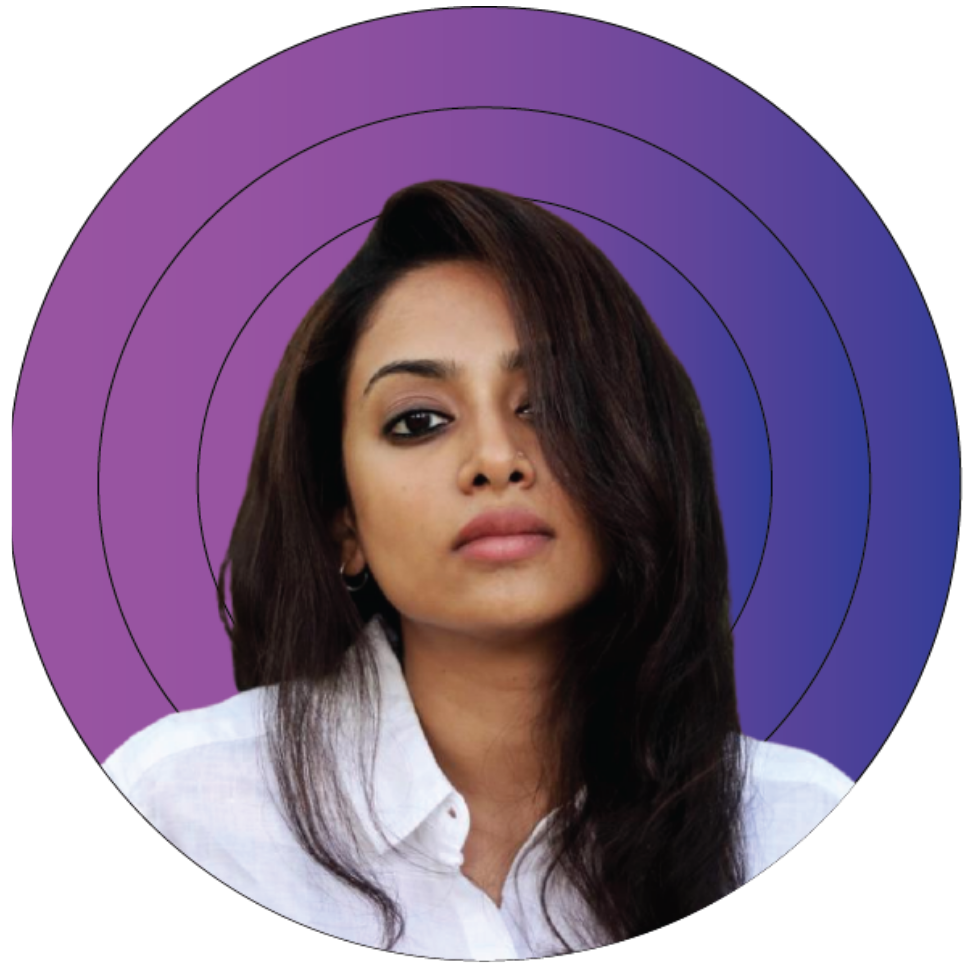
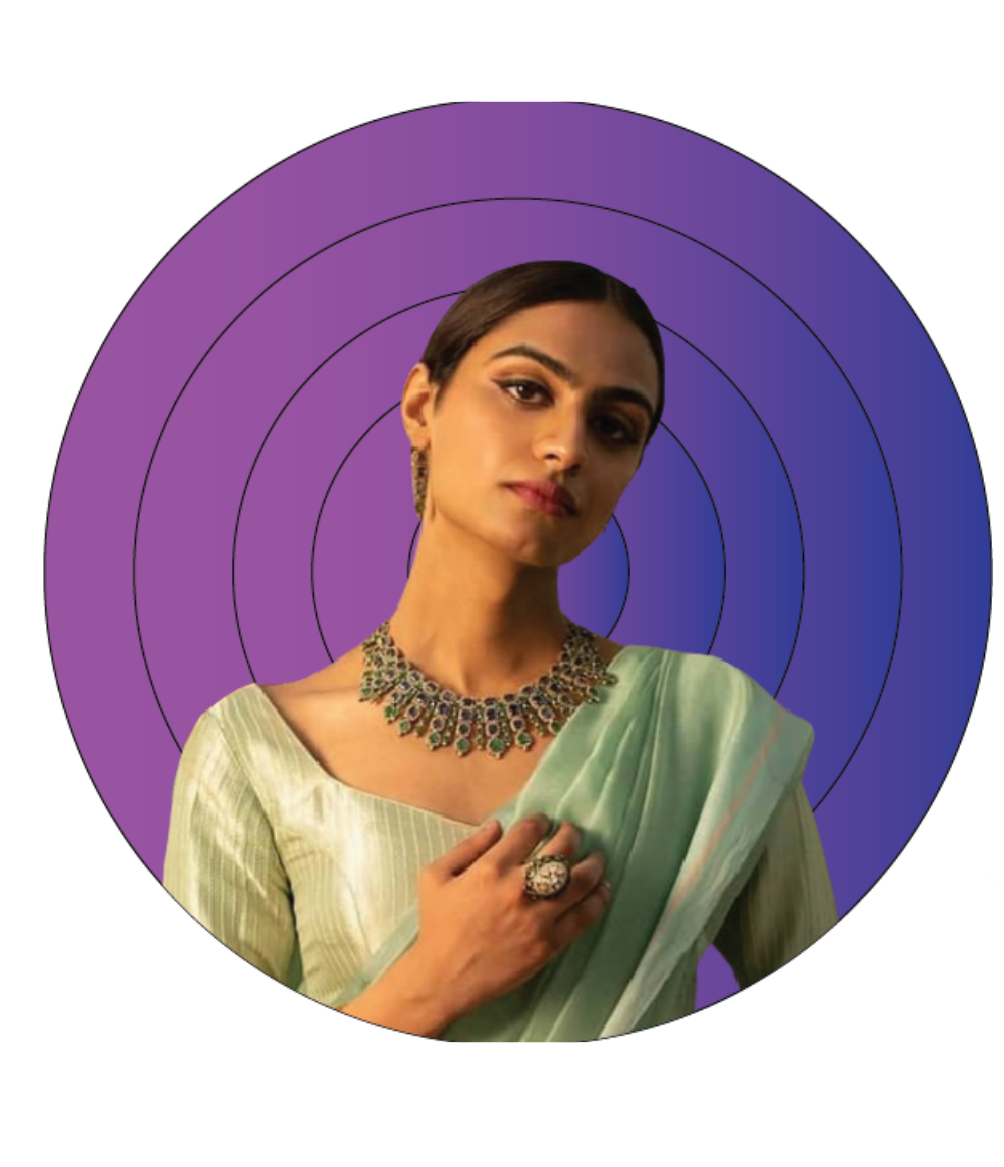
speakers photos and register page

diff --git a/pages/cynosure.js b/pages/cynosure.js
@@ -3,7 +3,6 @@ import Image from "next/image";
 import Head from "next/head";
 import Link from "next/link";
 
-import Footer from '../components/cynosure/Footer';
 import Slide from '../components/Slide'
 import cynoSlider from '../data/cynoSlider'
 import SpeakerCard from "../components/cynosure/speakerCard";
@@ -13,7 +12,6 @@ import { useForm } from "react-hook-form";
 import { FontAwesomeIcon } from "@fortawesome/react-fontawesome";
 import { faMapMarked } from "@fortawesome/free-solid-svg-icons";
 import { faFacebook, faInstagram, faLinkedin } from "@fortawesome/free-brands-svg-icons";
-import { useForm } from "react-hook-form";
 import axios from "axios";
 import React from "react";
 import { ToastContainer, toast } from 'react-toastify';
@@ -73,8 +71,12 @@ const cynosure = () => {
                     <Image className="" src="/CynosureLogo.png" height={2251} width={2251} loading="eager" />
                 </div>
                 <div className="px-10">
-                    <p className="text-lg lg:text-xl xl:text-2xl">Non aute anim exercitation aute nostrud ex ad do in dolor non velit. Occaecat ex excepteur exercitation aliquip ut nostrud enim consectetur.</p>
-                    <p className="text-lg lg:text-xl xl:text-2xl pt-5">Non aute anim exercitation aute nostrud ex ad do in dolor non velit. Occaecat ex excepteur exercitation aliquip ut nostrud enim consectetur.</p>
+                    <p className="text-lg lg:text-xl xl:text-2xl">A 16th century French word you may not have heard of until now, 'CYNOSURE' means "to be the centre of admiration and attention". </p>
+                    <p className="text-lg lg:text-xl xl:text-2xl pt-5">It's about placing things that matter, in the spotlight. Because, you matter. Your struggles matter.
+                    The path that you build for yourself, matters.</p>
+                    <p className="text-lg lg:text-xl xl:text-2xl pt-5">Overcome your inhibitions and seize the spotlight, and do it with zest and pride.
+                     Be a polestar that brings new perspectives into redefined focus.
+                    Be unapologetically you. </p>
                 </div>
             </div>
 
@@ -85,53 +87,55 @@ const cynosure = () => {
 
                 {/* Mobile View */}
                 <SpeakerCardMobile
-                    imgsrc="/cynosure/Meera.png"
+                    imgsrc="/cynosure/gauthami.png"
                     imgwidth="971"
                     imgheight="971"
-                    speaker="Meera"
-                    details="Lorem ipsum dolor sit amet, consectetur adipiscing elit, sed do eiusmod tempor incididunt ut labore et dolore magna aliqua. Ut enim ad minim veniam, quis nostrud exercitation ullamco laboris nisi ut aliquip ex ea commodo consequat. Duis aute irure dolor in reprehenderit in voluptate velit esse cillum dolore eu fugiat nulla pariatur. Excepteur sint occaecat cupidatat non proident, sunt in culpa qui officia deserunt mollit anim id est laborum."
+                    speaker="Gauthami Nair"
+                    details="Gauthami Nair, an adept actress and a proficient director, is a name familiar to all Malayalees. Her flamboyant personality mixed with her soul-stirring acting has made her one of the most illustrious actresses in the Malyalam film industry. Having made her mark through films like The Diamond Necklace and Second Show, she also directed Vrittham, a movie that made history with an all-women crew. Currently doing research in neuroscience at Sree Chitra Hospital, Trivandrum, her determination and mettle has incited many aspiring women directors to take the big step and prove their competence in the field."
                 />
 
                 <SpeakerCardMobile
                     imgsrc="/cynosure/Meera.png"
                     imgwidth="971"
                     imgheight="971"
-                    speaker="Meera"
-                    details="Lorem ipsum dolor sit amet, consectetur adipiscing elit, sed do eiusmod tempor incididunt ut labore et dolore magna aliqua. Ut enim ad minim veniam, quis nostrud exercitation ullamco laboris nisi ut aliquip ex ea commodo consequat. Duis aute irure dolor in reprehenderit in voluptate velit esse cillum dolore eu fugiat nulla pariatur. Excepteur sint occaecat cupidatat non proident, sunt in culpa qui officia deserunt mollit anim id est laborum."
+                    speaker="Rojin Thomas"
+                    details="One of most reowned film directors and scriptwriters in the Malayalam film industry, he is the brain behind some of your favourite movies like Home and Philips and the Monkey Pen. With ideas and stories that can move the most indifferent of hearts, Mr. Thomas finds a way every time to connect his stories with the daily hustles of the common man. Home is a blockbuster hit that brought many deep-rooted issues into the limelight with a simple story of a family man and was extremely well-received by the Malayali audience."
+                />
+
+                <SpeakerCardMobile
+                    imgsrc="/cynosure/gauthami.png"
+                    imgwidth="971"
+                    imgheight="971"
+                    speaker="Dr. Fathima Nilufer Sheriff"
+                    details="A one woman show who did it all herself and strives to do more. The builder and driving force behind the company, this enterpreneur is now known for her brand 'Therefore I'm', one of the very first wellness centers in Kerala A brand with an army of accomplished artists who are constantly aiming to help people gain confidence in themselves and gratification to all those who endorse it. 
+                    The clinic provides a top-notch transformation experience and uses globally acclaimed medical practices to treat its clients."
+                />
+
+                <SpeakerCardMobile
+                    imgsrc="/cynosure/Don Paul.png"
+                    imgwidth="971"
+                    imgheight="971"
+                    speaker="Don Paul"
+                    details="A young humanitarian who uses his engineering skills to help the differently abled, Don Paul began his journey with just a student startup. With his steadfast dedication and grit, Desintox Technologies has gone on to become an organization that creates innovations to help out people whose physical abilities are compromised. A hero without a cape but a man on a mission, Mr. Don Paul is a harbinger for change and a person set to make reality of an inclusive society for differently abled people across the country."
                 />
 
                 <SpeakerCardMobile
                     imgsrc="/cynosure/Meera.png"
                     imgwidth="971"
                     imgheight="971"
-                    speaker="Meera"
-                    details="Lorem ipsum dolor sit amet, consectetur adipiscing elit, sed do eiusmod tempor incididunt ut labore et dolore magna aliqua. Ut enim ad minim veniam, quis nostrud exercitation ullamco laboris nisi ut aliquip ex ea commodo consequat. Duis aute irure dolor in reprehenderit in voluptate velit esse cillum dolore eu fugiat nulla pariatur. Excepteur sint occaecat cupidatat non proident, sunt in culpa qui officia deserunt mollit anim id est laborum."
-                />
-
-                <SpeakerCardMobile
-                    imgsrc="/cynosure/Meera.png"
-                    imgwidth="971"
-                    imgheight="971"
-                    speaker="Meera"
-                    details="Lorem ipsum dolor sit amet, consectetur adipiscing elit, sed do eiusmod tempor incididunt ut labore et dolore magna aliqua. Ut enim ad minim veniam, quis nostrud exercitation ullamco laboris nisi ut aliquip ex ea commodo consequat. Duis aute irure dolor in reprehenderit in voluptate velit esse cillum dolore eu fugiat nulla pariatur. Excepteur sint occaecat cupidatat non proident, sunt in culpa qui officia deserunt mollit anim id est laborum."
-                />
-
-                <SpeakerCardMobile
-                    imgsrc="/cynosure/Meera.png"
-                    imgwidth="971"
-                    imgheight="971"
-                    speaker="Meera"
-                    details="Lorem ipsum dolor sit amet, consectetur adipiscing elit, sed do eiusmod tempor incididunt ut labore et dolore magna aliqua. Ut enim ad minim veniam, quis nostrud exercitation ullamco laboris nisi ut aliquip ex ea commodo consequat. Duis aute irure dolor in reprehenderit in voluptate velit esse cillum dolore eu fugiat nulla pariatur. Excepteur sint occaecat cupidatat non proident, sunt in culpa qui officia deserunt mollit anim id est laborum."
+                    speaker="Meera Singhania Rehani"
+                    details="Meera Singhania Rehani is a proud trans woman model who has fought for herself against the society. Her jaw-dropping performance in the Bhima Jewellery's ad has transcended all stereotypes against the LQBTQ+ community. 
+                    She has touched thousands of people with her story and continues to stand up for the community in whatever she does."
                 />
 
                 {/* Web View */}
                 <SpeakerCard
                     option='left'
-                    imgsrc="/cynosure/Meera.png"
+                    imgsrc="/cynosure/gauthami.png"
                     imgwidth="971"
                     imgheight="971"
-                    speaker="Meera"
-                    details="Lorem ipsum dolor sit amet, consectetur adipiscing elit, sed do eiusmod tempor incididunt ut labore et dolore magna aliqua. Ut enim ad minim veniam, quis nostrud exercitation ullamco laboris nisi ut aliquip ex ea commodo consequat. Duis aute irure dolor in reprehenderit in voluptate velit esse cillum dolore eu fugiat nulla pariatur. Excepteur sint occaecat cupidatat non proident, sunt in culpa qui officia deserunt mollit anim id est laborum."
+                    speaker="Gauthami Nair"
+                    details="Gauthami Nair, an adept actress and a proficient director, is a name familiar to all Malayalees. Her flamboyant personality mixed with her soul-stirring acting has made her one of the most illustrious actresses in the Malyalam film industry. Having made her mark through films like The Diamond Necklace and Second Show, she also directed Vrittham, a movie that made history with an all-women crew. Currently doing research in neuroscience at Sree Chitra Hospital, Trivandrum, her determination and mettle has incited many aspiring women directors to take the big step and prove their competence in the field."
                 />
 
                 <SpeakerCard
@@ -139,8 +143,8 @@ const cynosure = () => {
                     imgsrc="/cynosure/Meera.png"
                     imgwidth="971"
                     imgheight="971"
-                    speaker="Meera"
-                    details="Lorem ipsum dolor sit amet, consectetur adipiscing elit, sed do eiusmod tempor incididunt ut labore et dolore magna aliqua. Ut enim ad minim veniam, quis nostrud exercitation ullamco laboris nisi ut aliquip ex ea commodo consequat. Duis aute irure dolor in reprehenderit in voluptate velit esse cillum dolore eu fugiat nulla pariatur. Excepteur sint occaecat cupidatat non proident, sunt in culpa qui officia deserunt mollit anim id est laborum."
+                    speaker="Rojin Thomas"
+                    details="One of most reowned film directors and scriptwriters in the Malayalam film industry, he is the brain behind some of your favourite movies like Home and Philips and the Monkey Pen. With ideas and stories that can move the most indifferent of hearts, Mr. Thomas finds a way every time to connect his stories with the daily hustles of the common man. Home is a blockbuster hit that brought many deep-rooted issues into the limelight with a simple story of a family man and was extremely well-received by the Malayali audience."
                 />
 
                 <SpeakerCard
@@ -148,17 +152,18 @@ const cynosure = () => {
                     imgsrc="/cynosure/Meera.png"
                     imgwidth="971"
                     imgheight="971"
-                    speaker="Meera"
-                    details="Lorem ipsum dolor sit amet, consectetur adipiscing elit, sed do eiusmod tempor incididunt ut labore et dolore magna aliqua. Ut enim ad minim veniam, quis nostrud exercitation ullamco laboris nisi ut aliquip ex ea commodo consequat. Duis aute irure dolor in reprehenderit in voluptate velit esse cillum dolore eu fugiat nulla pariatur. Excepteur sint occaecat cupidatat non proident, sunt in culpa qui officia deserunt mollit anim id est laborum."
+                    speaker="Dr. Fathima Nilufer Sheriff"
+                    details="A one woman show who did it all herself and strives to do more. The builder and driving force behind the company, this enterpreneur is now known for her brand 'Therefore I'm', one of the very first wellness centers in Kerala. A brand with an army of accomplished artists who are constantly aiming to help people gain confidence in themselves and gratification to all those who endorse it. 
+                    The clinic provides a top-notch transformation experience and uses globally acclaimed medical practices to treat its clients."
                 />
 
                 <SpeakerCard
                     option='right'
-                    imgsrc="/cynosure/Meera.png"
+                    imgsrc="/cynosure/Don Paul.png"
                     imgwidth="971"
                     imgheight="971"
-                    speaker="Meera"
-                    details="Lorem ipsum dolor sit amet, consectetur adipiscing elit, sed do eiusmod tempor incididunt ut labore et dolore magna aliqua. Ut enim ad minim veniam, quis nostrud exercitation ullamco laboris nisi ut aliquip ex ea commodo consequat. Duis aute irure dolor in reprehenderit in voluptate velit esse cillum dolore eu fugiat nulla pariatur. Excepteur sint occaecat cupidatat non proident, sunt in culpa qui officia deserunt mollit anim id est laborum."
+                    speaker="Don Paul"
+                    details="A young humanitarian who uses his engineering skills to help the differently abled, Don Paul began his journey with just a student startup. With his steadfast dedication and grit, Desintox Technologies has gone on to become an organization that creates innovations to help out people whose physical abilities are compromised. A hero without a cape but a man on a mission, Mr. Don Paul is a harbinger for change and a person set to make reality of an inclusive society for differently abled people across the country."
                 />
 
                 <SpeakerCard
@@ -166,8 +171,9 @@ const cynosure = () => {
                     imgsrc="/cynosure/Meera.png"
                     imgwidth="971"
                     imgheight="971"
-                    speaker="Meera"
-                    details="Lorem ipsum dolor sit amet, consectetur adipiscing elit, sed do eiusmod tempor incididunt ut labore et dolore magna aliqua. Ut enim ad minim veniam, quis nostrud exercitation ullamco laboris nisi ut aliquip ex ea commodo consequat. Duis aute irure dolor in reprehenderit in voluptate velit esse cillum dolore eu fugiat nulla pariatur. Excepteur sint occaecat cupidatat non proident, sunt in culpa qui officia deserunt mollit anim id est laborum."
+                    speaker="Meera Singhania Rehani"
+                    details="Meera Singhania Rehani is a proud trans woman model who has fought for herself against the society. Her jaw-dropping performance in the Bhima Jewellery's ad has transcended all stereotypes against the LQBTQ+ community. 
+                    She has touched thousands of people with her story and continues to stand up for the community in whatever she does."
                 />
 
             </div>

diff --git a/pages/register.js b/pages/register.js
@@ -65,10 +65,12 @@ const register = () => {
                     <Image className="" src="/CynosureLogo.png" height={2251} width={2251} loading="eager" />
                 </div>
                 <div className="px-10">
-                    <p className="text-lg lg:text-xl xl:text-2xl">Non aute anim exercitation aute nostrud ex ad do in dolor non velit. Occaecat ex excepteur exercitation aliquip ut nostrud enim consectetur.</p>
-                    <p className="text-lg lg:text-xl xl:text-2xl pt-5">Non aute anim exercitation aute nostrud ex ad do in dolor non velit. Occaecat ex excepteur exercitation aliquip ut nostrud enim consectetur.</p>
+                <h1 className="serif text-2xl md:text-3xl lg:text-4xl mt-20 font-bold text-center">Registration Instructions</h1>
+              <br></br>  <h3 className="text-sm md:text-xl sans text-justify">1)There will be no refund of tickets once purchased.<br /><br />2) Ticket price is inclusive of entry to venue,lounges,activities,refreshments and lunch<br /><br />3) Payment will be accepted through Google pay only<br /><br />4) Kindly complete the registration form provided after the payment on the next step<br /><br />5) For any queries, kindly conatct +919447378402 (Aparna Panicker)<br /><br /></h3>  
                 </div>
             </div>
+
+          
 
             {/* Footer */}
             <footer className="w-full" >
